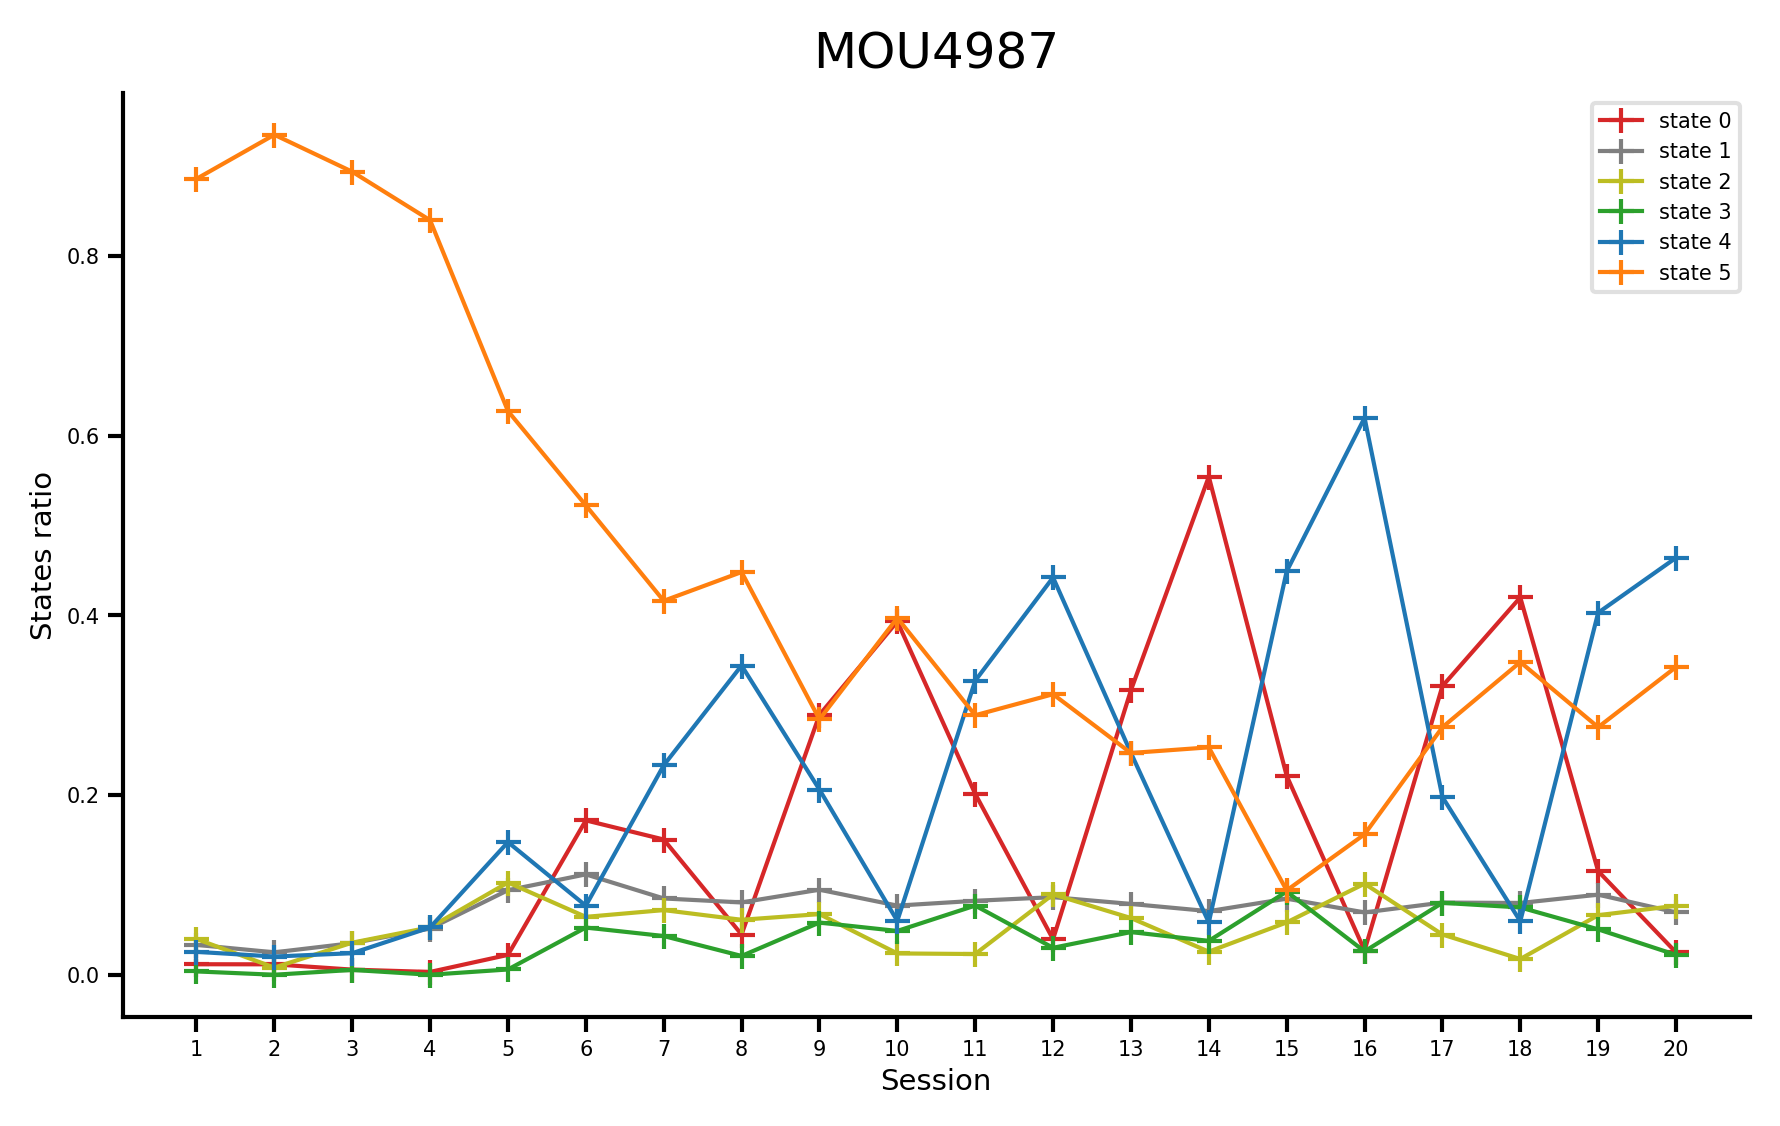
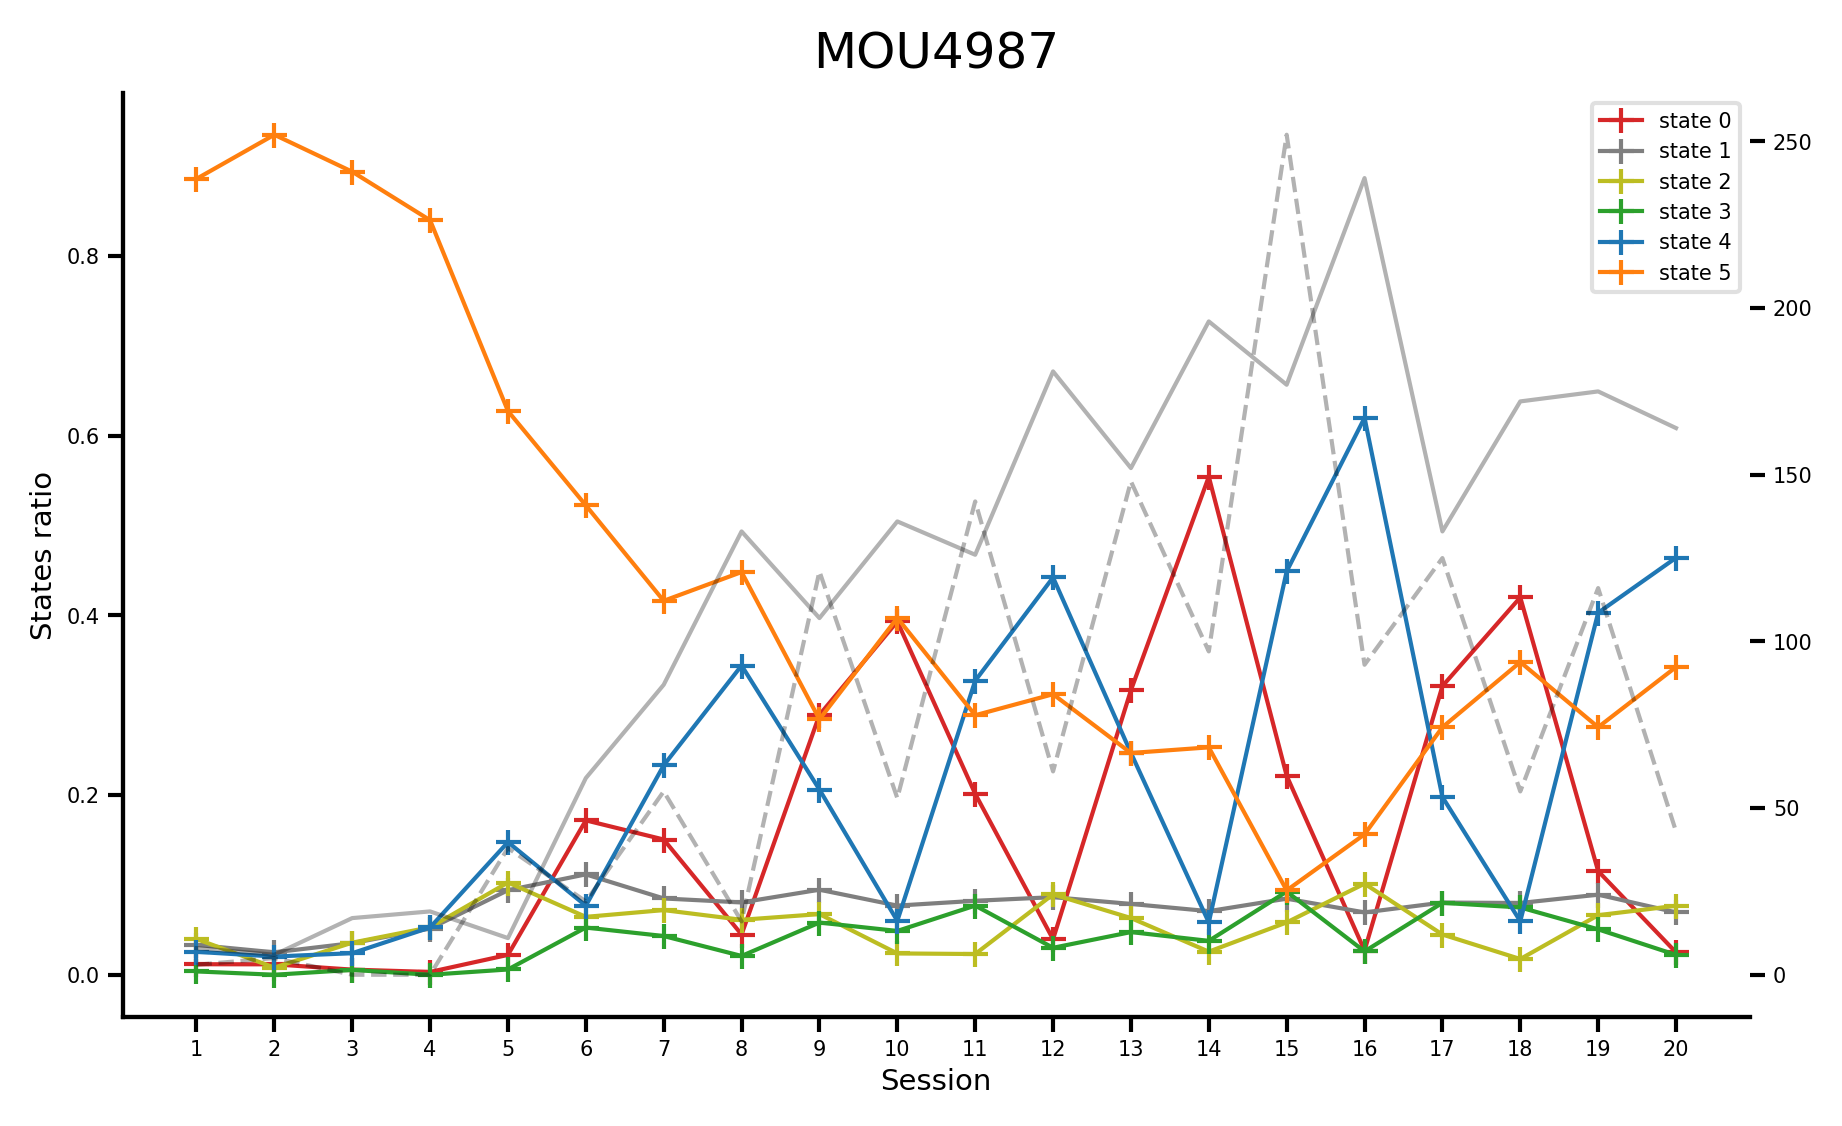
no idea

diff --git a/HMM/hmm_predict.py b/HMM/hmm_predict.py
@@ -24,8 +24,8 @@ plt.style.use('paper.mplstyle')
 # defining data folder path and mice list
 # path_to_data_folder is the path of the folder where you store the folders of your different mice.
 # path_to_data_folder='/LocalData/ForagingMice/4TowersTaskMethodPaper_Data/AurelienData/'
-# path_to_data_folder='/LocalData/ForagingMice/4TowersTaskMethodPaper_Data/AurelienData'
-path_to_data_folder='/LocalData/ForagingMice/4TowersTaskMethodPaper_Data/MaudData'
+path_to_data_folder='/LocalData/ForagingMice/4TowersTaskMethodPaper_Data/AurelienData'
+# path_to_data_folder='/LocalData/ForagingMice/4TowersTaskMethodPaper_Data/MaudData'
 
 # Analysing the entire group of mice
 mice_sample_group_1 = [
@@ -46,7 +46,7 @@ test_mice_group_2 = ['MOU4993',
              'MOU4988'
             ]
 
-test_mice = test_mice_group_2
+test_mice = test_mice_group_1
 
 ### Test mice ###
 
@@ -105,7 +105,7 @@ print(f'Emission Matrix Recovered:\n{model.emissionprob_.round(3)}\n\n')
 
 # action_types = extract_actions_sequence(path_to_data_folder, mouse_name, session_index)[2]
 
-
+mice_rewarded_tats_persession, mice_unrewarded_tats_persession = compute_rewards_persession(path_to_data_folder,[mouse_name])
 
 states_sequences = []
 
@@ -120,7 +120,6 @@ for session_index in sessions_index:
 states_distributions = compute_states_distribution_persession(path_to_data_folder,mouse_name,sessions_index,model)
 states_time_distributions, states_time_ratio_distributions = compute_time_in_states_persession(path_to_data_folder,mouse_name,sessions_index,model)
 
-
 action_types = extract_actions_sequence(path_to_data_folder, mouse_name, 0)[2]
 
 #############
@@ -134,11 +133,6 @@ colors= ['#d62728','#7f7f7f','#bcbd22','#2ca02c','#1f77b4','#ff7f0e']
 
 ### States Sequences ###
 
-fig=plt.figure(figsize=(7, 4), dpi=300, constrained_layout=False, facecolor='w')
-gs = fig.add_gridspec(1, 1)
-row = gs[0,0].subgridspec(1, 1)
-ax = plt.subplot(row[0,0])
-
 max_length = 0
 
 for states_sequence in states_sequences:
@@ -151,6 +145,11 @@ for states_sequence in states_sequences:
 
     padded_states_sequence = np.pad(np.array(states_sequence, dtype=float), (0,max_length-len(states_sequence)+1), mode='constant', constant_values=(np.nan,np.nan))
     padded_states_sequences.append(padded_states_sequence)
+
+fig=plt.figure(figsize=(7, 4), dpi=300, constrained_layout=False, facecolor='w')
+gs = fig.add_gridspec(1, 1)
+row = gs[0,0].subgridspec(1, 1)
+ax = plt.subplot(row[0,0])
     
 plot_states_sequence(ax, padded_states_sequences, colors=colors)
 
@@ -180,6 +179,7 @@ fig=plt.figure(figsize=(7, 4), dpi=300, constrained_layout=False, facecolor='w')
 gs = fig.add_gridspec(1, 1)
 row = gs[0,0].subgridspec(1, 1)
 ax = plt.subplot(row[0,0])
+ax_bis = ax.twinx()
 
 # plot_states_distri_across_sessions(states_distributions, ax)
 
@@ -187,6 +187,9 @@ ax = plt.subplot(row[0,0])
 
 
 plot_states_distri_across_sessions(states_time_ratio_distributions, ax, colors=colors)
+
+plot_individual_learning_curve(mice_rewarded_tats_persession, ax_bis, sessions_range=[0,20])
+plot_individual_learning_curve(mice_unrewarded_tats_persession, ax_bis, sessions_range=[0,20], linestyle='--')
 
 ax.set_title(mouse_name)
 
@@ -219,12 +222,14 @@ ax6.set_xlabel('Action')
 ax6.set_ylabel('State')
 
 ### Test Plots ###
-example_session_index = 16
+example_session_index = 17
 
 all_epochs = load_pickle_data(folder_path_mouse_to_analyse, example_session_index)["all_epochs"]
 ordered_runs = order_runs(all_epochs)[0]
 
 example_states_sequence = states_sequences[example_session_index]
+
+window_size = 51
 
 ## 
 fig=plt.figure(figsize=(7, 4), dpi=300, constrained_layout=False, facecolor='w')
@@ -248,7 +253,8 @@ gs = fig.add_gridspec(1, 1)
 row = gs[0,0].subgridspec(1, 1)
 ax = plt.subplot(row[0,0])
 
-plot_occurence_frequency(example_states_sequence, np.arange(nb_of_states), ax, colors = colors, window_size=51)
+plot_reward_rate(ordered_runs, ax, window_size=window_size, weight=1)
+plot_states_occurence_frequency(example_states_sequence, np.arange(nb_of_states), ax, colors = colors, window_size=window_size)
 
 plt.show()
 

diff --git a/HMM/analysis_functions.py b/HMM/analysis_functions.py
@@ -187,3 +187,76 @@ def compute_occurence_frequency_v2(sequence,window_size=51):
         occurence_frequency.append(res)
 
     return occurence_frequency
+
+def count_tats(tats):
+
+    total_tats = len(tats)
+    cw_tats = 0
+    rewarded_tats = 0
+
+    for tat in tats:
+
+        if tat[3]['direction']=='CW':
+
+            cw_tats += 1
+
+        if tat[3]['Rewarded']:
+
+            rewarded_tats += 1
+
+    return total_tats, cw_tats, rewarded_tats
+
+def compute_rewards_persession(path_to_data_folder, mice_to_analyse):
+
+    # Initialize dictionaries to store the various metrics for each mouse
+    rewarded_tats_persession = []
+    unrewarded_tats_persession = []
+
+    # Iterate through each mouse to process its data
+    for mouse in mice_to_analyse:
+        folder_path_mouse_to_process = os.path.join(path_to_data_folder, mouse)
+
+        # Get the list of sessions for the current mouse
+        sessions_to_process = sorted([name for name in os.listdir(folder_path_mouse_to_process)
+                                    if os.path.isdir(os.path.join(folder_path_mouse_to_process, name))
+                                    and name.startswith('MOU')])
+
+        # limit the analysis to the subseet of session we want to analyse
+        # sessions_to_process = sessions_to_process[first_and_last_session_indexes[0]:first_and_last_session_indexes[1]]
+
+        # nb_sessions = len(sessions_to_process)
+        # print(f'Mouse {mouse}. There is/are {nb_sessions} sessions:')
+        # print(sessions_to_process, '\n')
+
+
+        # Process each session for the current mouse
+        for session_index, session_to_process in enumerate(sessions_to_process):
+
+            
+            # Define the pickle file path for the session
+            output_pickle_filename = f"{session_to_process}_basic_processing_output.pickle"
+            output_pickle_filepath = os.path.join(folder_path_mouse_to_process, session_to_process, output_pickle_filename)
+
+            # Check if the pickle file exists
+            if not os.path.exists(output_pickle_filepath):
+                print(f'Pickle file does not exist for session {session_to_process}, skipping .....')
+                # Append session Nan data to the respective dictionaries
+                rewarded_tats_persession.append([session_index + 1, np.nan])
+                unrewarded_tats_persession.append([session_index + 1, np.nan])
+                continue  # Skip to the next session if the pickle file does not exist
+
+            # Load the pickle file
+            with open(output_pickle_filepath, 'rb') as file:
+                session_data = pickle.load(file)
+            
+            # Extract run around tower results from the session data
+            
+            epochs = session_data['all_epochs']
+            tats = epochs['run_around_tower']
+            total_tats, cw_tats, rewarded_tats = count_tats(tats)
+
+            # Append session data to the respective dictionaries
+            rewarded_tats_persession.append([session_index + 1, rewarded_tats])
+            unrewarded_tats_persession.append([session_index + 1, total_tats-rewarded_tats])
+
+    return rewarded_tats_persession, unrewarded_tats_persession

diff --git a/HMM/plots_functions.py b/HMM/plots_functions.py
@@ -167,6 +167,14 @@ def plot_learning_curve(values_persessions_permouse, mice_to_analyse, ax, wilcox
     
     ax.set_xticks(values_persessions[0])
 
+def plot_individual_learning_curve(values_persessions, ax, sessions_range=[0,-1], linestyle='-'):
+
+    values_persessions = np.transpose(values_persessions[sessions_range[0]:sessions_range[-1]])
+    
+    # Plot individual mice
+    ax.plot(values_persessions[0],values_persessions[1], linestyle=linestyle, color='k', alpha=0.3)
+    
+    ax.set_xticks(values_persessions[0])
 
 def plot_states_distri_across_sessions(states_distributions, ax, colors = ['#d62728','#7f7f7f','#bcbd22','#2ca02c','#1f77b4','#ff7f0e']):
 
@@ -183,6 +191,7 @@ def plot_states_distri_across_sessions(states_distributions, ax, colors = ['#d62
 
     ax.legend()
     # ax.set_ylim([0,1])
+
 
 def plot_cumulated_turns_profile(ordered_runs, ax, states_sequence = None, colors = ['#d62728','#7f7f7f','#bcbd22','#2ca02c','#1f77b4','#ff7f0e']):
 
@@ -220,7 +229,7 @@ def plot_cumulated_states_profile(states_sequence, states, ax, colors = ['#d6272
     ax.set_xlabel('Rank')
     ax.set_ylabel('Cumulated step in state')
 
-def plot_occurence_frequency(states_sequence, states_type, ax, colors = ['#d62728','#7f7f7f','#bcbd22','#2ca02c','#1f77b4','#ff7f0e'], window_size=50, weight=1):
+def plot_states_occurence_frequency(states_sequence, states_type, ax, colors = ['#d62728','#7f7f7f','#bcbd22','#2ca02c','#1f77b4','#ff7f0e'], window_size=50, weight=1):
 
     length = len(states_sequence)
 
@@ -228,9 +237,9 @@ def plot_occurence_frequency(states_sequence, states_type, ax, colors = ['#d6272
 
         sequence = np.where(states_sequence==s,1,0)
 
-        occurence_frequency = compute_occurence_frequency_v1(sequence, window_size)
+        occurence_frequency = compute_occurence_frequency_v2(sequence, window_size)
 
-        ax.plot(np.arange(length), occurence_frequency, color=colors[s])
+        ax.step(np.arange(window_size, length), occurence_frequency[window_size:], color=colors[s])
 
     cmap = ListedColormap(colors) #plt.cm.Set1
     norm = Normalize(vmin=np.nanmin(states_sequence), vmax=np.nanmax(states_sequence)+1)
@@ -245,6 +254,31 @@ def plot_occurence_frequency(states_sequence, states_type, ax, colors = ['#d6272
     ax.set_xlabel('Rank')
     ax.set_ylabel(f'Occurence frequency\n in a window of size {window_size}')
 
+def plot_reward_rate(ordered_runs, ax, window_size=50, weight=1):
+
+    length = len(ordered_runs)
+
+    reward_sequence = np.array([])
+
+    for run in ordered_runs:
+
+        if run[0]=='run_around_tower':
+
+            is_rewarded = int(run[4]['Rewarded'])
+
+        else:
+
+            is_rewarded = 0
+
+        reward_sequence = np.append(reward_sequence,is_rewarded)
+
+    reward_rate = compute_occurence_frequency_v2(reward_sequence, window_size)
+    # mistake_rate = compute_occurence_frequency_v1(abs((reward_sequence-1)), window_size)
+
+    ax.step(np.arange(window_size, length), reward_rate[window_size:], color='black')
+
+    ax.set_xlabel('Rank')
+    ax.set_ylabel(f'Reward rate\n in a window of size {window_size}')
 
     
         

diff --git a/MVT_depletion_protocol/draft/shitty_depletion.py b/MVT_depletion_protocol/draft/shitty_depletion.py
@@ -274,7 +274,7 @@ def update(val):
 
     print(x0,y0)
 
-ax.plot(CHRONOLOGY, REWARD_CHRONOLOGY)
+# ax.plot(CHRONOLOGY, REWARD_CHRONOLOGY)
 
 travel_slider.on_changed(update)
 leave_slider.on_changed(update)
